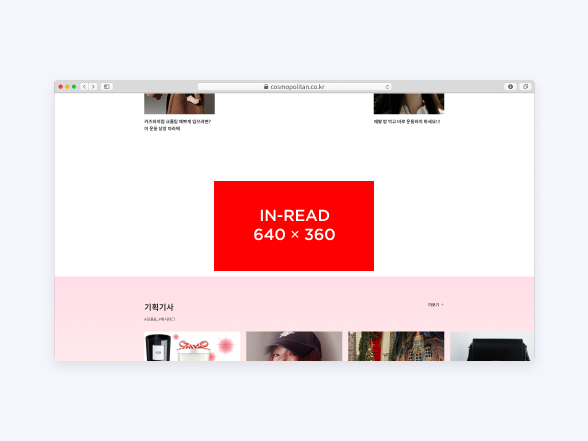
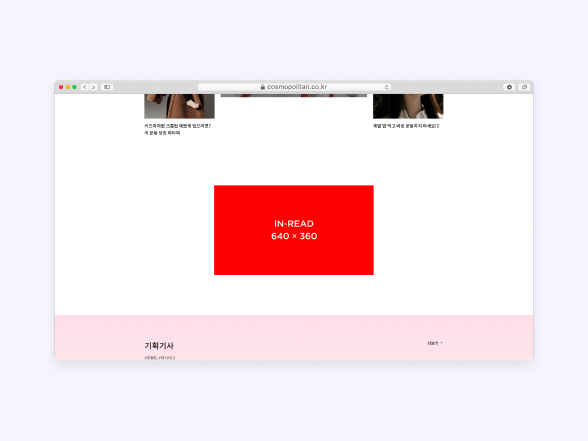
수정

diff --git a/hll_company/resources/css/content.css b/hll_company/resources/css/content.css
@@ -908,9 +908,10 @@ body.is_mobile  img.pc {display:none}
     .section_contact .btn_area.half .btn{width:100%;}
 
     .adinfo [class*="section"]{padding:80px 0;}
-    .adinfo [class*="section"].pd{padding-bottom:60px;}
-    .adinfo [class*="section"]+[class*="bg_"]{padding-bottom:60px;}
     .adinfo [class*="section"] .tit_wrap .tit.en{font-size:24px;line-height:32px;}
+    .adinfo [class*="bg_"] + [class*="section"]{padding-top:60px;}
+    .adinfo [class*="section"].pd{padding-bottom:80px;padding-top:80px}
+    .adinfo .section2{padding-bottom:60px;}
     .adinfo .tab_menu+.tab_menu{margin-top:24px;}
     .sec_wrap .section01{padding:40px 0;text-align:left;}
     .sec_wrap .section01 p{font-size:16px;line-height:23px;}
@@ -1050,6 +1051,10 @@ body.is_mobile  img.pc {display:none}
     /*popup*/
     .popup_full .popup_bottom{display:block; padding: 16px 20px 32px;}
 
+}
+
+@media screen and (max-width: 450px) {
+    .list_ad.type3 ul li .txt_info dl dt{width:47%;}
 }
 
 @media screen and (max-width: 359px) {

diff --git a/hll_company/html/adinfo/esquire/desktop.html b/hll_company/html/adinfo/esquire/desktop.html
@@ -157,7 +157,7 @@
                                         </li>
                                         <li>
                                             <div class="img_info">
-                                                <img src="../../../resources/images/img_adesquire_desktop3.png" alt=""><!--2024-01-05 이미지 경로 변경-->
+                                                <img src="../../../resources/images/img_adftbn_desktop.png" alt=""><!--2024-01-05 이미지 경로 변경-->
                                             </div>
                                             <div class="txt_info">
                                                 <strong><span>Desktop DA</span>푸터 배너 (Footer Banner)</strong>

diff --git a/hll_company/html/adinfo/bazaar/desktop.html b/hll_company/html/adinfo/bazaar/desktop.html
@@ -157,7 +157,7 @@
                                         </li>
                                         <li>
                                             <div class="img_info">
-                                                <img src="../../../resources/images/img_adbazaar_desktop3.png" alt=""><!--2024-01-05 이미지 경로 변경-->
+                                                <img src="../../../resources/images/img_adftbn_desktop.png" alt=""><!--2024-01-05 이미지 경로 변경-->
                                             </div>
                                             <div class="txt_info">
                                                 <strong><span>Desktop DA</span>푸터 배너 (Footer Banner)</strong>

diff --git a/hll_company/html/adinfo/cosmopolitan/desktop.html b/hll_company/html/adinfo/cosmopolitan/desktop.html
@@ -157,7 +157,7 @@
                                         </li>
                                         <li>
                                             <div class="img_info">
-                                                <img src="../../../resources/images/img_adcosmo_desktop3.png" alt=""><!--2024-01-05 이미지 경로 변경-->
+                                                <img src="../../../resources/images/img_adftbn_desktop.png" alt=""><!--2024-01-05 이미지 경로 변경-->
                                             </div>
                                             <div class="txt_info">
                                                 <strong><span>Desktop DA</span>푸터 배너 (Footer Banner)</strong>
